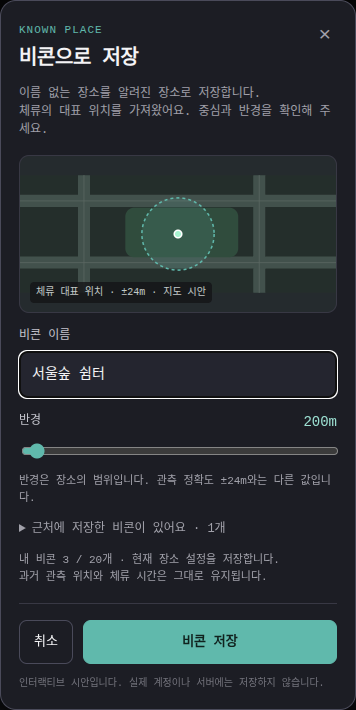
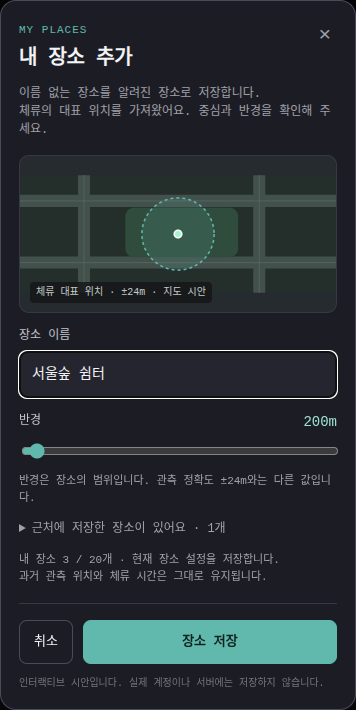
feat(web): render stays as vertical journal ribbons

diff --git a/docs/design/concepts/2026-10-27-stay-ribbons/index.html b/docs/design/concepts/2026-10-27-stay-ribbons/index.html
@@ -18,24 +18,24 @@
 <p class="note"><b>포함 기준:</b> 시간 범위와 위치가 일치하는 음성만 연결 후보로 묶습니다. 시각이 같아도 위치가 다르거나 후보 체류가 여럿이면 감싸지 않습니다.<br><b>리본 선택:</b> 체류 상세를 펼칩니다. 음성 카드를 누르면 기존 음성 상세로 이동합니다.</p></section>
 <section class="case" id="without-voice"><div class="case-heading"><span class="num">B</span><div><h2>체류 안에 녹음이 없을 때</h2><p>리본은 일반 음성 항목 높이의 절반만 차지합니다.</p></div></div><div class="day">10월 27일 화요일 <span>음성 2개 · 체류 1개</span></div>
 <div class="feed"><div class="outside"><article class="voice"><div class="top"><time>오후 02:10</time><span class="tag travel">여행 · TRAVEL</span></div><h3>다음 장소로 가는 길</h3><div class="bottom"><span>21초</span><span>위치 저장됨</span></div></article></div>
-<div class="empty-stay"><button class="ribbon-button" type="button" aria-label="이름 없는 장소 체류 상세, 포함된 음성 없음" aria-expanded="false" onclick="const d=document.getElementById('detail-b');d.classList.toggle('open');this.setAttribute('aria-expanded',String(d.classList.contains('open')))"></button><div class="ribbon"></div><div class="empty-copy"><div><div class="empty-title"><strong id="unnamed-label">이름 없는 장소</strong><button class="beacon-action" type="button" id="beacon-entry" onclick="openBeacon(this)">＋ 비콘으로 저장</button></div><small>확인된 체류 32분 · 음성 없음</small></div><time>13:40 마지막 관측<br>13:00 시작</time></div></div>
+<div class="empty-stay"><button class="ribbon-button" type="button" aria-label="이름 없는 장소 체류 상세, 포함된 음성 없음" aria-expanded="false" onclick="const d=document.getElementById('detail-b');d.classList.toggle('open');this.setAttribute('aria-expanded',String(d.classList.contains('open')))"></button><div class="ribbon"></div><div class="empty-copy"><div><div class="empty-title"><strong id="unnamed-label">이름 없는 장소</strong><button class="beacon-action" type="button" id="beacon-entry" onclick="openBeacon(this)">＋ 장소로 저장</button></div><small>확인된 체류 32분 · 음성 없음</small></div><time>13:40 마지막 관측<br>13:00 시작</time></div></div>
 <div id="detail-b" class="inspector"><strong id="stay-detail-place">이름 없는 장소 · 체류 관측 범위 13:00–13:40</strong><p>확인된 체류 32분. 연결할 음성 후보가 없습니다. 음성이 없어도 체류는 독립된 기록으로 남습니다.</p></div>
 <div class="outside"><article class="voice"><div class="top"><time>오후 12:40</time><span class="tag memo">메모 · MEMO</span></div><h3>이동 전에 확인할 내용</h3><div class="bottom"><span>18초</span><span>위치 저장됨</span></div></article></div>
 <div class="key">128px 음성 항목 ↕ · 음성 없는 체류 슬롯 64px ↕</div></div>
-<p class="note"><b>반 칸 규칙:</b> 음성 항목이 없으면 64px의 얇은 행 안에서 장소·시각·확인 시간을 표시합니다. 별도 카드 배경이나 테두리를 만들지 않습니다. 이름이 없으면 같은 행에서 비콘으로 저장할 수 있습니다.<br><b>독립 기록:</b> 포함된 음성이 없어도 체류 리본을 선택해 상세와 위치를 볼 수 있습니다.</p></section>
+<p class="note"><b>반 칸 규칙:</b> 음성 항목이 없으면 64px의 얇은 행 안에서 장소·시각·확인 시간을 표시합니다. 별도 카드 배경이나 테두리를 만들지 않습니다. 이름이 없으면 같은 행에서 장소로 저장할 수 있습니다.<br><b>독립 기록:</b> 포함된 음성이 없어도 체류 리본을 선택해 상세와 위치를 볼 수 있습니다.</p></section>
 </main>
-<section class="flow-strip" aria-label="이름 없는 장소를 비콘으로 저장하는 흐름"><section><h3>1 · 목록에서 바로</h3><p><strong style="color:#f4f4f6">이름 없는 장소</strong> 옆 <span class="mini">＋ 비콘으로 저장</span></p><p>음성이 있는 긴 리본과 음성이 없는 반 칸 리본 모두 동일한 진입 버튼을 사용합니다.</p></section><section><h3>2 · 위치·이름·반경 확인</h3><p>체류의 대표 관측 위치를 미리 채웁니다. 이름을 입력하고 지도 중심·반경을 확인한 뒤 저장합니다.</p><p>가까운 기존 비콘이 있으면 새로 만들지 않고 선택할 수 있습니다.</p></section><section><h3>3 · 알려진 장소로</h3><p class="known-label">서울숲 쉼터 · 알려진 장소</p><p>현재 비콘 설정에 따른 이름을 리본에 표시합니다. 원본 위치와 체류 시각은 변경하지 않습니다.</p></section></section>
+<section class="flow-strip" aria-label="이름 없는 장소를 장소로 저장하는 흐름"><section><h3>1 · 목록에서 바로</h3><p><strong style="color:#f4f4f6">이름 없는 장소</strong> 옆 <span class="mini">＋ 장소로 저장</span></p><p>음성이 있는 긴 리본과 음성이 없는 반 칸 리본 모두 동일한 진입 버튼을 사용합니다.</p></section><section><h3>2 · 위치·이름·반경 확인</h3><p>체류의 대표 관측 위치를 미리 채웁니다. 이름을 입력하고 지도 중심·반경을 확인한 뒤 저장합니다.</p><p>가까운 기존 장소이 있으면 새로 만들지 않고 선택할 수 있습니다.</p></section><section><h3>3 · 알려진 장소로</h3><p class="known-label">서울숲 쉼터 · 알려진 장소</p><p>현재 장소 설정에 따른 이름을 리본에 표시합니다. 원본 위치와 체류 시각은 변경하지 않습니다.</p></section></section>
 <section class="legend"><div><strong>높이는 목록의 밀도에 따라</strong>리본은 시간 비례 그래프가 아닙니다. 음성 2개면 두 항목을 감싸고, 음성이 없으면 반 칸만 사용합니다.</div><div><strong>관측 범위와 체류 시간을 분리</strong>끝 표시는 “마지막 관측”입니다. 마지막 관측 이후를 체류로 늘리거나, 알 수 없는 공백 위치를 그리지 않습니다.</div><div><strong>겹치거나 애매한 체류</strong>같은 시간의 체류 후보가 여러 개면 옆 리본 레인으로 나누고 음성을 강제로 묶지 않습니다. 날짜가 바뀌면 이어짐 표식을 둡니다.</div></section>
-<p class="caption">상호작용 가능한 HTML 시안 · A의 왼쪽 리본이나 B의 반 칸 리본을 선택하면 체류 상세가 펼쳐집니다. “비콘으로 저장”은 장소 저장 패널을 엽니다. 실제 앱 동작을 바꾸는 구현은 포함하지 않습니다.</p>
-<dialog id="beacon-dialog" class="beacon-sheet" aria-labelledby="beacon-heading" onclose="document.getElementById('beacon-entry').focus()"><form id="beacon-form" onsubmit="saveBeacon(event)"><div class="sheet-title"><div><span class="kicker">KNOWN PLACE</span><h2 id="beacon-heading">비콘으로 저장</h2></div><button class="x-close" type="button" aria-label="닫기" onclick="this.closest('dialog').close()">×</button></div><p class="sheet-desc">이름 없는 장소를 알려진 장소로 저장합니다.<br>체류의 대표 위치를 가져왔어요. 중심과 반경을 확인해 주세요.</p>
-<div class="map-preview" aria-label="비콘 중심과 반경을 확인하는 지도 시안"><svg viewBox="0 0 420 156" role="img" aria-label="대표 관측 위치를 중심으로 한 반경 미리보기"><rect width="420" height="156" fill="#242e2b"/><path d="M0 34H420M0 116H420M85 0V156M318 0V156" stroke="#42514c" stroke-width="16"/><path d="M0 34H420M0 116H420M85 0V156M318 0V156" stroke="#5b6762" stroke-width="1"/><rect x="140" y="43" width="150" height="66" rx="12" fill="#304c3d"/><circle id="beacon-radius-ring" cx="210" cy="78" r="48" fill="#60b9ac22" stroke="#60b9ac" stroke-width="2" stroke-dasharray="4 4"/><circle cx="210" cy="78" r="5" fill="#a7f3d0" stroke="#fff" stroke-width="2"/></svg><span class="map-tag">체류 대표 위치 · ±24m · 지도 시안</span></div>
-<label class="field">비콘 이름<input id="beacon-name" name="name" type="text" maxlength="40" required placeholder="예: 회사, 자주 가는 카페" autocomplete="off"></label>
+<p class="caption">상호작용 가능한 HTML 시안 · A의 왼쪽 리본이나 B의 반 칸 리본을 선택하면 체류 상세가 펼쳐집니다. “장소로 저장”은 장소 저장 패널을 엽니다. 실제 앱 동작을 바꾸는 구현은 포함하지 않습니다.</p>
+<dialog id="beacon-dialog" class="beacon-sheet" aria-labelledby="beacon-heading" onclose="document.getElementById('beacon-entry').focus()"><form id="beacon-form" onsubmit="saveBeacon(event)"><div class="sheet-title"><div><span class="kicker">MY PLACES</span><h2 id="beacon-heading">내 장소 추가</h2></div><button class="x-close" type="button" aria-label="닫기" onclick="this.closest('dialog').close()">×</button></div><p class="sheet-desc">이름 없는 장소를 알려진 장소로 저장합니다.<br>체류의 대표 위치를 가져왔어요. 중심과 반경을 확인해 주세요.</p>
+<div class="map-preview" aria-label="장소 중심과 반경을 확인하는 지도 시안"><svg viewBox="0 0 420 156" role="img" aria-label="대표 관측 위치를 중심으로 한 반경 미리보기"><rect width="420" height="156" fill="#242e2b"/><path d="M0 34H420M0 116H420M85 0V156M318 0V156" stroke="#42514c" stroke-width="16"/><path d="M0 34H420M0 116H420M85 0V156M318 0V156" stroke="#5b6762" stroke-width="1"/><rect x="140" y="43" width="150" height="66" rx="12" fill="#304c3d"/><circle id="beacon-radius-ring" cx="210" cy="78" r="48" fill="#60b9ac22" stroke="#60b9ac" stroke-width="2" stroke-dasharray="4 4"/><circle cx="210" cy="78" r="5" fill="#a7f3d0" stroke="#fff" stroke-width="2"/></svg><span class="map-tag">체류 대표 위치 · ±24m · 지도 시안</span></div>
+<label class="field">장소 이름<input id="beacon-name" name="name" type="text" maxlength="40" required placeholder="예: 회사, 자주 가는 카페" autocomplete="off"></label>
 <label class="field"><span class="radius-label"><span>반경</span><output id="beacon-radius-value">200m</output></span><input id="beacon-radius" name="radius" type="range" min="150" max="2000" step="50" value="200" oninput="document.getElementById('beacon-radius-value').value=this.value+'m';document.getElementById('beacon-radius-ring').setAttribute('r',Math.min(67,36+Number(this.value)/17))"></label>
 <p class="hint">반경은 장소의 범위입니다. 관측 정확도 ±24m와는 다른 값입니다.</p>
-<details class="nearby"><summary>근처에 저장한 비콘이 있어요 · 1개</summary><button type="button" onclick="document.getElementById('beacon-name').value='서울숲 쉼터';document.getElementById('beacon-save').textContent='기존 비콘 사용';document.getElementById('beacon-form').dataset.existing='true'">서울숲 쉼터 · 150m · 기존 비콘 사용</button></details>
-<p class="hint">내 비콘 3 / 20개 · 현재 장소 설정을 저장합니다.<br>과거 관측 위치와 체류 시간은 그대로 유지됩니다.</p><div class="sheet-actions"><button type="button" class="cancel" onclick="this.closest('dialog').close()">취소</button><button id="beacon-save" class="save-beacon" type="submit">비콘 저장</button></div><p class="sample-note">인터랙티브 시안입니다. 실제 계정이나 서버에는 저장하지 않습니다.</p></form></dialog><div id="beacon-toast" class="beacon-toast" role="status" hidden></div>
+<details class="nearby"><summary>근처에 저장한 장소이 있어요 · 1개</summary><button type="button" onclick="document.getElementById('beacon-name').value='서울숲 쉼터';document.getElementById('beacon-save').textContent='기존 장소 사용';document.getElementById('beacon-form').dataset.existing='true'">서울숲 쉼터 · 150m · 기존 장소 사용</button></details>
+<p class="hint">내 장소 3 / 20개 · 현재 장소 설정을 저장합니다.<br>과거 관측 위치와 체류 시간은 그대로 유지됩니다.</p><div class="sheet-actions"><button type="button" class="cancel" onclick="this.closest('dialog').close()">취소</button><button id="beacon-save" class="save-beacon" type="submit">장소 저장</button></div><p class="sample-note">인터랙티브 시안입니다. 실제 계정이나 서버에는 저장하지 않습니다.</p></form></dialog><div id="beacon-toast" class="beacon-toast" role="status" hidden></div>
 <script>
 function openBeacon(button){document.getElementById('beacon-toast').hidden=true;document.getElementById('beacon-dialog').showModal()}
-function saveBeacon(event){event.preventDefault();const name=document.getElementById('beacon-name').value.trim();if(!name){document.getElementById('beacon-name').focus();return}document.getElementById('unnamed-label').textContent=name;document.getElementById('beacon-entry').textContent='비콘 수정';document.getElementById('stay-detail-place').textContent=name+' · 현재 비콘 설정 기준 · 체류 관측 범위 13:00–13:40';document.getElementById('beacon-dialog').close();const toast=document.getElementById('beacon-toast');toast.textContent='알려진 장소로 저장했습니다 · 이 시안에서만 적용';toast.hidden=false}
+function saveBeacon(event){event.preventDefault();const name=document.getElementById('beacon-name').value.trim();if(!name){document.getElementById('beacon-name').focus();return}document.getElementById('unnamed-label').textContent=name;document.getElementById('beacon-entry').textContent='장소 수정';document.getElementById('stay-detail-place').textContent=name+' · 현재 장소 설정 기준 · 체류 관측 범위 13:00–13:40';document.getElementById('beacon-dialog').close();const toast=document.getElementById('beacon-toast');toast.textContent='알려진 장소로 저장했습니다 · 이 시안에서만 적용';toast.hidden=false}
 </script>
 </html>

diff --git a/web/e2e/unified-journal.spec.ts b/web/e2e/unified-journal.spec.ts
@@ -13,7 +13,7 @@ test("voice and stays share the chronological feed, search and type filters", as
   const feed = page.locator(".record-list");
   await expect(feed.locator(voiceCard)).toHaveCount(1);
   await expect(feed.locator(stayCard)).toHaveCount(1);
-  await expect(feed.locator("button").first()).toContainText("Coffee on the corner");
+  await expect(feed.locator(voiceCard).first()).toContainText("Coffee on the corner");
   await page.screenshot({ path: "test-results/unified-journal-desktop.png", fullPage: true });
   await page.getByRole("button", { name: "Stays", exact: true }).click();
   await expect(feed.locator(stayCard)).toHaveCount(1);
@@ -149,7 +149,7 @@ for (const theme of ["light", "dark"] as const) {
     await staysFixture(page);
     await page.addInitScript(value => localStorage.setItem("haptilog_theme", value), theme);
     await page.goto("/");
-    const card = page.locator(`.mobile-record${stayCard}`);
+    const card = page.locator(`.ribbon-stay-open${stayCard}`);
     await card.click();
     await expect(page.locator(".mobile-detail")).toContainText("59 min observed");
     await expect(page.locator(".mobile-detail audio")).toHaveCount(0);
@@ -169,7 +169,7 @@ for (const width of [1280, 390]) {
     await page.setViewportSize({ width, height: 844 });
     await staysFixture(page);
     await page.goto("/");
-    await page.locator(width < 700 ? `.mobile-record${stayCard}` : `.record-list ${stayCard}`).click();
+    await page.locator(width < 700 ? `.ribbon-stay-open${stayCard}` : `.record-list ${stayCard}`).click();
     const save = page.getByRole("button", { name: "Save as a place", exact: true });
     await save.click();
     const settings = page.getByRole("dialog", { name: "Place settings", exact: true });
@@ -189,7 +189,7 @@ for (const width of [1280, 390]) {
     portal.recording.recorded_at = "2026-10-26T05:30:00Z";
     portal.recording.latitude = 37.5; portal.recording.longitude = 127;
     await page.goto("/");
-    const card = page.locator(width < 700 ? `.mobile-record${stayCard}` : `.record-list ${stayCard}`);
+    const card = page.locator(width < 700 ? `.ribbon-stay-open${stayCard}` : `.record-list ${stayCard}`);
     await card.click();
     await page.getByRole("region", { name: "Voice candidates during this stay" }).getByRole("button", { name: "Coffee on the corner", exact: true }).click();
     await expect(page.getByRole("button", { name: "Load original audio", exact: true })).toBeVisible();
@@ -228,3 +228,31 @@ test("opening a related voice clears desktop filters that would hide its detail"
   await expect(page.locator(`.record-list ${voiceCard}`)).toHaveClass(/selected/);
   await expect(page.getByRole("searchbox", { name: "Search journal" })).toHaveValue("");
 });
+
+for (const width of [1280, 390]) {
+  test(`stay ribbon spans voice and empty stay has half height at ${width}px`, async ({ page }) => {
+    await page.setViewportSize({ width, height: 844 });
+    const { portal, state } = await staysFixture(page);
+    portal.recording.recorded_at = '2026-10-26T05:30:00Z';
+    portal.recording.latitude = 37.5; portal.recording.longitude = 127;
+    await page.goto('/');
+    const timeline = page.locator('.journal-ribbons');
+    const ribbon = timeline.locator('.stay-ribbon');
+    await expect(ribbon).toHaveCount(1);
+    const ribbonBox = await ribbon.boundingBox();
+    const voiceBox = await timeline.locator('[data-journal-kind="voice"]').boundingBox();
+    expect(ribbonBox!.y).toBeLessThan(voiceBox!.y);
+    expect(ribbonBox!.y + ribbonBox!.height).toBeGreaterThanOrEqual(voiceBox!.y + voiceBox!.height - 1);
+    await ribbon.click();
+    await expect(page.locator('.stay-inspector')).toContainText('59 min observed');
+    if (width < 700) await page.getByRole('button', { name: 'Back to journal' }).click();
+    state.data.places = [];
+    portal.recording.recorded_at = '2026-10-26T04:00:00Z';
+    await page.reload();
+    await expect(timeline.getByRole('button', { name: '+ Save place', exact: true })).toBeVisible();
+    await expect.poll(async () => Math.round((await ribbon.boundingBox())!.height)).toBe(64);
+    await timeline.getByRole('button', { name: '+ Save place', exact: true }).click();
+    await expect(page.getByRole('dialog', { name: 'Place settings' }).locator('.place-editor')).toBeVisible();
+    expect(await page.evaluate(() => document.documentElement.scrollWidth <= innerWidth)).toBe(true);
+  });
+}

diff --git a/web/src/main.tsx b/web/src/main.tsx
@@ -36,7 +36,7 @@ import { supabase, authCallbackFailed } from "./client";
 import { journalItems, matchesJournal, journalDates } from "./journal";
 import type { JournalItem } from "./journal";
 import { useLocationJournal } from "./location-stays/useLocationJournal";
-import { JournalStayCard } from "./JournalStayCard";
+import { JournalTimeline } from "./JournalTimeline";
 import { StayInspector } from "./location-stays/StayInspector";
 import type { Stay } from "./location-stays/types";
 import { clearAllDismissals } from "./location-stays/dismissals";
@@ -1040,7 +1040,7 @@ function App() {
           </section>
         </main>
       ) : mobile ? (
-        <MobileWorkspace key={connection.session_id} records={records} filtered={filtered} items={allItems} filteredItems={filteredItems} renderStay={renderStay} stayEmptyMessage={stayEmptyMessage} locationLoaded={!!locationJournal.snapshot || !!locationJournal.error || isDemo} loaded={loaded} truncated={truncated}
+        <MobileWorkspace key={connection.session_id} records={records} filtered={filtered} items={allItems} filteredItems={filteredItems} onSavePlace={!isDemo && locationJournal.snapshot?.state.consent_enabled ? item => requestPlace(item.stay) : undefined} renderStay={renderStay} stayEmptyMessage={stayEmptyMessage} locationLoaded={!!locationJournal.snapshot || !!locationJournal.error || isDemo} loaded={loaded} truncated={truncated}
           date={date} setDate={setDate} category={category} setCategory={setCategory} search={search} setSearch={setSearch}
           summary={summary} count={dateJournal.length} stayMinutes={stayMinutes} now={locationJournal.now} seconds={totalSeconds} lastChecked={lastChecked}
           lang={lang} t={t} busy={busy} onDraftChange={setDraftInProgress} onDetailChange={setMobileDetailOpen} refresh={() => { setError(""); void load(); }} exportCsv={exportCsv} disconnect={disconnect} emptyTrash={emptyTrash}
@@ -1483,8 +1483,8 @@ function App() {
                     </div>
                   ) : (
                     <div className="record-list">
-                      {displayItems.map((item) => {
-                    if (item.kind === "stay") return <JournalStayCard key={`stay:${item.id}`} item={item} lang={lang} now={locationJournal.now} selected={activeItem?.id === item.id} onSelect={() => setSelected(item.id)} />;
+                      <JournalTimeline items={displayItems} allItems={allItems} now={locationJournal.now} lang={lang} onSelectStay={item => setSelected(item.id)} onSavePlace={!isDemo && locationJournal.snapshot?.state.consent_enabled ? item => requestPlace(item.stay) : undefined} renderVoice={(item) => {
+                    if (item.kind !== "voice") return null;
                     const r = item.recording;
                     const e = latest(r),
                       state = processingState(r),
@@ -1531,7 +1531,7 @@ function App() {
                         </span>
                       </button>
                     );
-                  })}
+                  }} />
                 </div>
               )}
             </section>

diff --git a/web/src/JournalTimeline.tsx b/web/src/JournalTimeline.tsx
@@ -1,0 +1,28 @@
+import type { ReactNode } from 'react';
+import type { JournalItem } from './journal.ts';
+import { journalDuration, journalTitle, placeCandidates } from './journal.ts';
+import { ribbonLayout } from './ribbons.ts';
+import './ribbons.css';
+
+/** Shared list geometry keeps voice chronology and gives stays a continuous time range. */
+export function JournalTimeline({ items, allItems, now, lang, renderVoice, onSelectStay, onSavePlace }: {
+  items: JournalItem[]; allItems: JournalItem[]; now: number; lang: 'ko' | 'en';
+  renderVoice: (item: JournalItem) => ReactNode;
+  onSelectStay: (item: Extract<JournalItem, { kind: 'stay' }>) => void;
+  onSavePlace?: (item: Extract<JournalItem, { kind: 'stay' }>) => void;
+}) {
+  const { rows, ranges, lanes } = ribbonLayout(items, allItems, now);
+  const ko = lang === 'ko';
+  return <div className="journal-ribbons" style={{ gridTemplateColumns: `repeat(${lanes}, 8px) minmax(0, 1fr)` }}>
+    {ranges.flatMap(({ item, lane, segments }) => segments.map(({ first, last }) => <button key={`ribbon:${item.id}:${first}`} type="button" className="stay-ribbon" style={{ gridColumn: lane + 1, gridRow: `${first + 1} / ${last + 2}` }} onClick={() => onSelectStay(item)} aria-label={`${journalTitle(item, lang)} · ${journalDuration(item, lang)}`} />))}
+    {rows.map((item, index) => <div key={`${item.kind}:${item.id}`} className={item.kind === 'stay' ? 'ribbon-stay-row' : 'ribbon-voice-row'} style={{ gridColumn: lanes + 1, gridRow: index + 1 }}>
+      {item.kind === 'voice' ? renderVoice(item) : <div className="ribbon-stay-label">
+        <button type="button" className="ribbon-stay-open" data-record-id={item.id} data-journal-kind="stay" onClick={() => onSelectStay(item)}>
+          <strong>{journalTitle(item, lang)}</strong>
+          <span>{new Date(item.stay.started_at).toLocaleString(lang, { month: 'short', day: 'numeric', hour: '2-digit', minute: '2-digit' })} – {new Date(item.stay.last_observed_at).toLocaleString(lang, { month: 'short', day: 'numeric', hour: '2-digit', minute: '2-digit' })} · {journalDuration(item, lang)}</span>
+        </button>
+        {placeCandidates(item).length !== 1 && onSavePlace && <button type="button" className="ribbon-place-save" onClick={() => onSavePlace(item)}>{ko ? '＋ 장소로 저장' : '+ Save place'}</button>}
+      </div>}
+    </div>)}
+  </div>;
+}

diff --git a/web/src/ribbons.ts b/web/src/ribbons.ts
@@ -1,0 +1,35 @@
+import type { JournalItem } from './journal.ts';
+import { recordingAssociation } from './location-stays/domain.ts';
+type StayItem = Extract<JournalItem, { kind: 'stay' }>;
+export function ribbonLayout(items: JournalItem[], allItems: JournalItem[], now: number) {
+  const stays = allItems.filter((item): item is StayItem => item.kind === 'stay');
+  const observations = stays.map(item => item.stay);
+  const linked = new Map<string, string>();
+  for (const item of items) if (item.kind === 'voice') {
+    const match = recordingAssociation(item.recording, observations, now);
+    if (match.kind === 'candidate') linked.set(item.id, match.stayIds[0]);
+  }
+  const anchor = (item: JournalItem) => item.kind === 'voice' ? Date.parse(item.recorded_at)
+    : Math.max(Date.parse(item.recorded_at), ...items.filter(v => v.kind === 'voice' && linked.get(v.id) === item.id).map(v => Date.parse(v.recorded_at)));
+  const rows = [...items].sort((a, b) => anchor(b) - anchor(a) || (a.kind === b.kind ? a.id.localeCompare(b.id) : a.kind === 'stay' ? -1 : 1));
+  const ends: number[] = [];
+  const ranges = rows.flatMap((item, first) => {
+    if (item.kind !== 'stay') return [];
+    let last = first;
+    rows.forEach((row, index) => { if (row.kind === 'voice' && linked.get(row.id) === item.id) last = Math.max(last, index); });
+    let lane = ends.findIndex(end => end < first);
+    if (lane < 0) lane = ends.length;
+    ends[lane] = last;
+    // Do not visually enclose an unrelated voice merely because it lies between candidates.
+    const segments: { first: number; last: number }[] = [];
+    for (let index = first; index <= last; index++) {
+      const row = rows[index];
+      if (index !== first && !(row.kind === 'voice' && linked.get(row.id) === item.id)) continue;
+      const previous = segments.at(-1);
+      if (previous && previous.last === index - 1) previous.last = index;
+      else segments.push({ first: index, last: index });
+    }
+    return [{ item, first, last, lane, segments }];
+  });
+  return { rows, ranges, lanes: ends.length };
+}

diff --git a/web/src/ribbons.css b/web/src/ribbons.css
@@ -1,0 +1,13 @@
+.journal-ribbons { display: grid; column-gap: 6px; row-gap: 10px; align-items: stretch; }
+.stay-ribbon { width: 8px; min-width: 0; padding: 0; border: 0; border-radius: 5px; background: #62c7ae; cursor: pointer; box-shadow: inset 0 0 0 1px #ffffff20; }
+.stay-ribbon:hover { background: #8ce3cd; }
+.stay-ribbon:focus-visible { outline: 2px solid var(--text, #fff); outline-offset: 2px; }
+.ribbon-stay-row { min-width: 0; height: 64px; display: flex; align-items: center; }
+.ribbon-stay-label { display: flex; align-items: center; gap: 8px; width: 100%; min-width: 0; }
+.ribbon-stay-open { display: flex; flex-direction: column; align-items: flex-start; gap: 5px; min-width: 0; background: transparent; border: 0; color: inherit; text-align: left; cursor: pointer; padding: 4px 0; flex: 1; }
+.ribbon-stay-open strong { max-width: 100%; overflow: hidden; text-overflow: ellipsis; white-space: nowrap; font-size: 13px; }
+.ribbon-stay-open span { font-size: 10px; opacity: .65; line-height: 1.5; }
+.ribbon-place-save { padding: 5px; border: 0; border-radius: 4px; background: transparent; color: #62c7ae; font-size: 11px; cursor: pointer; flex-shrink: 0; }
+.ribbon-voice-row { min-width: 0; }
+.journal-ribbons .record-card, .journal-ribbons .mobile-record { width: 100%; min-height: 128px; margin: 0; box-sizing: border-box; }
+@media (max-width: 480px) { .ribbon-stay-label { flex-wrap: wrap; gap: 0 6px; } .ribbon-stay-open { flex-basis: 65%; } .ribbon-place-save { font-size: 10px; } }

diff --git a/web/src/MobileWorkspace.tsx b/web/src/MobileWorkspace.tsx
@@ -41,6 +41,7 @@ import {
 } from "./domain";
 import type { Recording } from "./domain";
 import { JournalStayCard } from "./JournalStayCard";
+import { JournalTimeline } from "./JournalTimeline";
 import { journalDates, journalLocated, voiceItem } from "./journal";
 import type { JournalItem } from "./journal";
 import type { Language, TranslationKeys } from "./i18n";
@@ -69,6 +70,7 @@ type Props = {
   filteredItems: JournalItem[];
   stayEmptyMessage: string;
   locationLoaded: boolean;
+  onSavePlace?: (item: Extract<JournalItem, { kind: "stay" }>) => void;
   renderStay: (item: Extract<JournalItem, { kind: "stay" }>, onOpenRecording?: (recording: Recording) => void) => React.ReactNode;
   loaded: boolean;
   truncated: boolean;
@@ -569,8 +571,7 @@ export function MobileWorkspace(p: Props) {
                         {ko ? "개" : " records"}
                       </span>
                     </h2>
-                    {entries.filter((r) => journalDates(r).includes(day))
-                      .map(card)}
+                    <JournalTimeline items={entries.filter(r => journalDates(r).includes(day))} allItems={p.items} now={p.now} lang={lang} renderVoice={card} onSelectStay={openDetail} onSavePlace={p.onSavePlace} />
                   </section>
                 ))
                 : (

diff --git a/web/src/location-stays/PlaceEditor.tsx b/web/src/location-stays/PlaceEditor.tsx
@@ -34,7 +34,7 @@ export function PlaceEditor({ initial, places, editingId, expectedRevision, onSa
     } catch { setStatus(ko ? "저장하지 못했습니다. 변경 내용을 유지했습니다. 다시 시도하세요." : "Could not save. Your draft is preserved; retry when connected."); }
     finally { setBusy(false); }
   }}>
-    <fieldset disabled={busy}><legend>{ko ? "내 장소" : "My place"}</legend>
+    <fieldset disabled={busy}><legend>{editingId ? (ko ? "내 장소 수정" : "Edit my place") : (ko ? "내 장소 추가" : "Add to my places")}</legend>
       <PlaceMap latitude={draft.latitude} longitude={draft.longitude} radius={draft.radius_meters} lang={lang} onSelect={(latitude, longitude) => update({ latitude, longitude })} />
       <label>{ko ? "이름" : "Name"}<input value={draft.name} onChange={e => update({ name: e.target.value })} required /></label>
       <label>{ko ? "위도" : "Latitude"}<input type="number" step="any" min="-90" max="90" value={Number.isFinite(draft.latitude) ? draft.latitude : ""} onChange={e => update({ latitude: e.target.valueAsNumber })} required /></label>

diff --git a/web/e2e/main-stay-samples.spec.ts b/web/e2e/main-stay-samples.spec.ts
@@ -11,7 +11,7 @@ for(const width of [1280,390]) {
     await page.goto('/');await page.getByTestId('preview-test-login-button').click();
     const stayRows=width<700?5:4; // the midnight stay appears on both observed dates
     // Use visible main cards; neither the developer dialog nor its selector is opened.
-    const cards=page.locator(width<700?'.mobile-record[data-journal-kind="stay"]':'.record-list [data-journal-kind="stay"]');
+    const cards=page.locator(width<700?'.ribbon-stay-open[data-journal-kind="stay"]':'.record-list [data-journal-kind="stay"]');
     await expect(cards).toHaveCount(stayRows);
     await expect(page.locator(width<700?'.mobile-record[data-journal-kind="voice"]':'.record-list [data-journal-kind="voice"]')).toHaveCount(9);
     await expect(cards.filter({hasText:'Sample café'})).toHaveCount(1);

diff --git a/docs/design/concepts/2026-10-27-stay-ribbons/README.md b/docs/design/concepts/2026-10-27-stay-ribbons/README.md
@@ -25,24 +25,23 @@ cases; `mobile.png` shows them at 390px. Rendering checked 128px/64px sizing,
 mobile horizontal containment and keyboard-accessible empty-stay disclosure.
 All recordings and locations in this design are synthetic.
 
-## Unnamed stay → known place (beacon)
+## Unnamed stay → My places
 
-An unnamed ribbon exposes **＋ 비콘으로 저장** directly beside its place label,
+An unnamed ribbon exposes **＋ 장소로 저장** directly beside its place label,
 including the 64px empty-stay slot. Known ribbons use their current place name
 and offer editing instead of creating a duplicate. The prototype's unnamed
 example is case B; the same entry applies to case A when it is unnamed.
 
 The save sheet starts at the stay's representative observation position, asks for
 a 1–40-character name and a 150–2,000m radius (200m preview default), and distinguishes
-GPS accuracy from the user's chosen place radius. Nearby existing beacons can be
-reused. This is the existing SavedPlace concept with a user-facing beacon label,
-not a Bluetooth device or new background behavior. The existing 20-place limit,
+GPS accuracy from the user's chosen place radius. Nearby existing places can be
+reused. This is the existing SavedPlace concept with the user-facing label “내 장소”. The existing 20-place limit,
 owner authorization and conflict/draft-preservation rules remain implementation
 requirements.
 
 Save updates the prototype's displayed ribbon name and changes its entry to
-**비콘 수정**. Original coordinates, observation times and confirmed duration are
-not changed; naming is qualified as the current beacon setting. Cancel returns to
+**장소 수정**. Original coordinates, observation times and confirmed duration are
+not changed; naming is qualified as the current place setting. Cancel returns to
 the ribbon. The HTML mockup makes no network writes and explicitly labels the
 save as prototype-only.
 
@@ -50,3 +49,15 @@ save as prototype-only.
 `beacon-saved-mobile.png` shows the renamed half-row ribbon. Pointer entry,
 name/save/edit/cancel, retained 64px height and mobile horizontal containment
 were verified in the project Chrome session. The map is a schematic preview.
+
+## Main journal implementation
+
+The mobile and desktop list now use `JournalTimeline`. Voice cards stay in newest-first
+order. Stays span their unambiguous voice candidates; empty stays use a 64px row
+against a minimum 128px voice card. Intervening unrelated voices break the ribbon.
+Filtered-out stays still participate in association ambiguity checks. Each mobile
+date keeps the original stay identity, including stays crossing midnight.
+Unnamed stays open the existing place editor directly, subject to consent; demo
+stays remain read-only. The editor uses “내 장소 추가” and “내 장소 수정”.
+
+`implemented-mobile.png` and `implemented-desktop.png` show the main sample journal.
